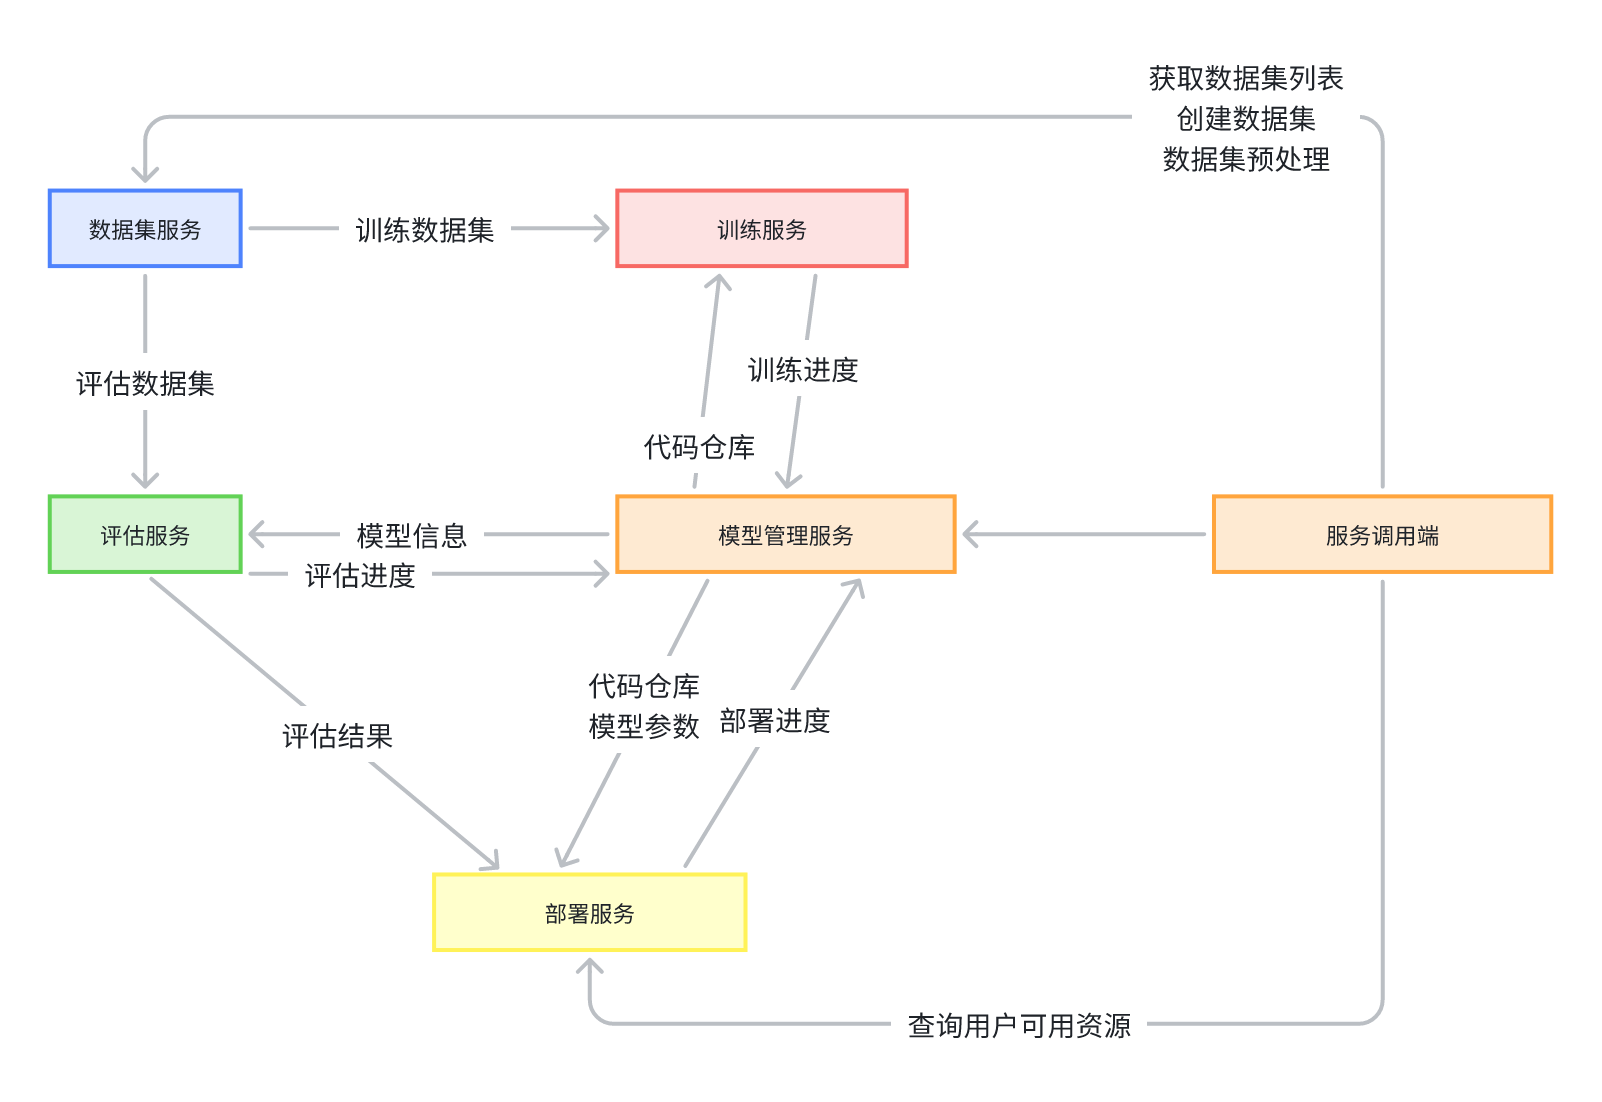
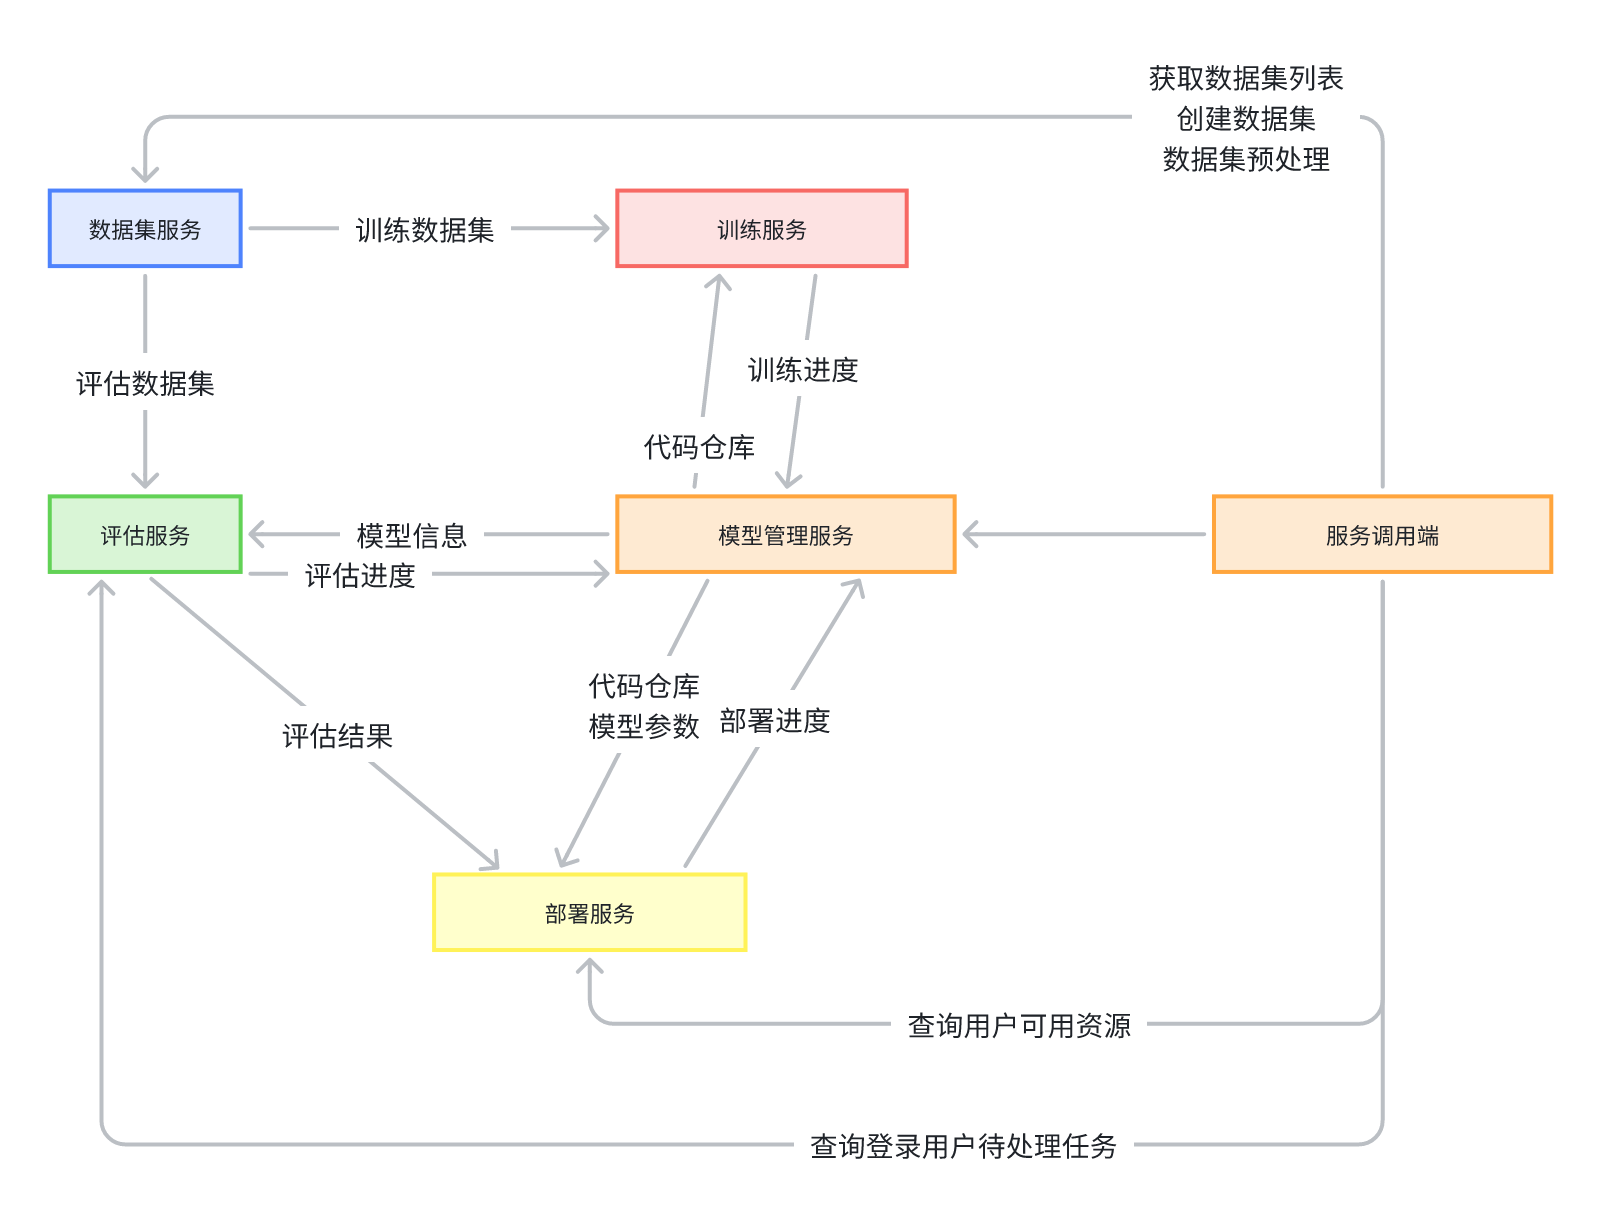
tiny update

diff --git a/llm_platform.md b/llm_platform.md
@@ -2,7 +2,9 @@
 
  
 
-## 1. 需求
+## 1. 相关信息
+
+### 1.1 需求
 
 为**垂直领域**大模型应用提供模型训练、模型推理、模型部署和测评、模型管理、资源调度等工程解决方案
 
@@ -34,7 +36,7 @@
 
 **训练任务**：记录一次实际的训练过程，应该包含训练结果
 
-**评估**：配置模型如何进行评估，人工 or 自动评估，使用哪些数据集
+**评估**：配置模型如何进行评估，人工 or 自动评估，使用哪些数据集，量化模型的表现以判断模型版本更新的收益
 
 **评估任务**：记录一次实际的评估过程，包含评估过程中模型的实际输入输出内容
 
@@ -82,10 +84,12 @@
 - 
 
 #### 2.3.4 评估域
-- 创建一个评估任务
-- 返回评估结果
+- 创建一个评估任务（任务应该有某种分配规则，将任务自动分配给一批评测员和质检员）
+- 获取登录用户待处理的评估/质检任务
+- 返回模型的评估结果
 
 #### 2.3.5 部署域
+- 创建模型的部署配置
 - 启动一个部署工单
 - 获取部门或个人的资源Quota
 - 设置部门或个人的资源Quota
@@ -106,20 +110,18 @@
 #### 3.1.1 **数据集管理**
 
 
-•     数据导入
+•     数据集导入 / 删除
 
 -    文件导入
 
 -    链接导入（如开源数据集）
 
--    HDFS导入
+-    HDFS导入（记录地址即可）
 
-#### 3.1.2 **可视化**
- 
+•    数据集权限管理
 
- 
 
-#### 3.1.3 **数据集预处理**
+#### 3.1.2 **数据集预处理**
 
 创建数据清洗任务，配置数据清洗规则（内置部分常用规则，支持编写个性化清洗规则）
 
@@ -127,7 +129,7 @@
 
  
 
-##### 3.1.3.1 **数据清洗任务**
+##### 3.1.2.1 **数据清洗任务**
 
 •     网页数据去除html tag
 
@@ -139,7 +141,7 @@
 
  
 
-##### 3.1.3.2 **数据增强任务**
+##### 3.1.2.2 **数据增强任务**
 
 •     图片，对图片进行一系列处理形成新的图片来增加多样性和数据量。（e.g. 旋转，加噪声，缩放，裁剪...）
 
@@ -157,7 +159,7 @@
 
  
 
-#### 3.1.4 **数据标注**
+#### 3.1.3 **数据标注**
 
 支持多种标注方式，可以配置成模板复用
 
@@ -182,6 +184,9 @@
 -    识别成文字
 
  
+#### 3.1.4 **可视化**
+使用公司已有的基础设施实现
+
 
 ### 3.2 **模型推理**
 
@@ -189,14 +194,16 @@
  
 
 ### 3.3 **模型测评**
+> 内部测试时可以考历届的搏学考试
 
 #### 3.3.1 **测试数据集管理**
-> 每年考个搏学考试
+
 
 #### 3.3.2 **评测任务管理**
 
 支持多版本Prompt的评测结果对比？
 
+如果是人工评测，需要把评测任务分配给评测员，需质检
  
 
 #### 3.3.3 **模型竞技场**
@@ -218,10 +225,44 @@ PyTorch/TensorFlow编写的模型 -> 转化成中间表示ONNX -> 推理引擎( 
 
 #### 3.4.3 **成本看板**
 
+#### 3.4.4 **表结构**
+
+部署配置表
+```sql
+CREATE TABLE deployment_config (
+    `id` bigint(20) unsigned NOT NULL COMMENT 'id',
+    `name` VARCHAR(100) NOT NULL COMMENT '模型项目名',
+    `desc` VARCHAR(1000) DEFAULT NULL COMMENT '描述',
+    `model_id` bigint(20) NOT NULL COMMENT '模型id',
+    `config` JSON DEFAULT NULL COMMENT '部署配置',
+    `version` int(11) NOT NULL DEFAULT 0 COMMENT '版本锁',
+    `mark_delete` tinyint(4) NOT NULL DEFAULT 0 COMMENT '删除标',
+    `create_time` bigint(20) NOT NULL DEFAULT 0 COMMENT '创建时间戳',
+    `update_time` bigint(20) NOT NULL DEFAULT 0 COMMENT '更新时间戳',
+    PRIMARY KEY (`id`),
+) ENGINE=InnoDB DEFAULT CHARSET=utf8mb4 COMMENT='部署配置表';
+```
+
+部署工单表
+```sql
+CREATE TABLE deplyment_session (
+    `id` bigint(20) unsigned NOT NULL COMMENT 'id',
+    `name` VARCHAR(100) NOT NULL COMMENT '模型项目名',
+    `desc` VARCHAR(1000) DEFAULT NULL COMMENT '描述',
+    `deplyment_config_id` bigint(20) NOT NULL COMMENT '部署配置id',
+    `config` JSON DEFAULT NULL COMMENT '部署配置快照',
+    `version` int(11) NOT NULL DEFAULT 0 COMMENT '版本锁',
+    `mark_delete` tinyint(4) NOT NULL DEFAULT 0 COMMENT '删除标',
+    `create_time` bigint(20) NOT NULL DEFAULT 0 COMMENT '创建时间戳',
+    `update_time` bigint(20) NOT NULL DEFAULT 0 COMMENT '更新时间戳',
+    PRIMARY KEY (`id`),
+) ENGINE=InnoDB DEFAULT CHARSET=utf8mb4 COMMENT='部署工单表';
+```
+
 
 ### 3.5 **模型管理**
 
-跟踪每个模型的开发进度
+跟踪模型的开发进度
 
 
 #### 3.5.1 **表结构**
@@ -229,21 +270,20 @@ PyTorch/TensorFlow编写的模型 -> 转化成中间表示ONNX -> 推理引擎( 
 模型表
 ```sql
 CREATE TABLE model_project (
-    id bigint PRIMARY KEY,
-    name VARCHAR(100) NOT NULL COMMENT '模型项目名',
-    desc VARCHAR(1000) DEFAULT NULL COMMENT '描述',
-    path VARCHAR(200) DEFAULT NULL COMMENT '模型路径',
-    train_framework VARCHAR(100) DEFAULT NULL COMMENT '训练框架',
-    Inference_framework VARCHAR(100) DEFAULT NULL COMMENT '推理框架',
-    metrics_url VARCHAR(200) DEFAULT NULL COMMENT '监控看板url',
-);
+    `id` bigint(20) unsigned NOT NULL COMMENT 'id',
+    `name` VARCHAR(100) NOT NULL COMMENT '模型项目名',
+    `desc` VARCHAR(1000) DEFAULT NULL COMMENT '描述',
+    `path` VARCHAR(200) DEFAULT NULL COMMENT '模型路径',
+    `train_framework` VARCHAR(100) DEFAULT NULL COMMENT '训练框架',
+    `Inference_framework` VARCHAR(100) DEFAULT NULL COMMENT '推理框架',
+    `metrics_url` VARCHAR(200) DEFAULT NULL COMMENT '监控看板url',
+    `version` int(11) NOT NULL DEFAULT 0 COMMENT '版本锁',
+    `mark_delete` tinyint(4) NOT NULL DEFAULT 0 COMMENT '删除标',
+    `create_time` bigint(20) NOT NULL DEFAULT 0 COMMENT '创建时间戳',
+    `update_time` bigint(20) NOT NULL DEFAULT 0 COMMENT '更新时间戳',
+    PRIMARY KEY (`id`),
+) ENGINE=InnoDB DEFAULT CHARSET=utf8mb4 COMMENT='模型表';
 ```
-
-评测任务表
-
-部署配置表
-
-部署工单表
 
 #### 3.5.2 **监控**
 
